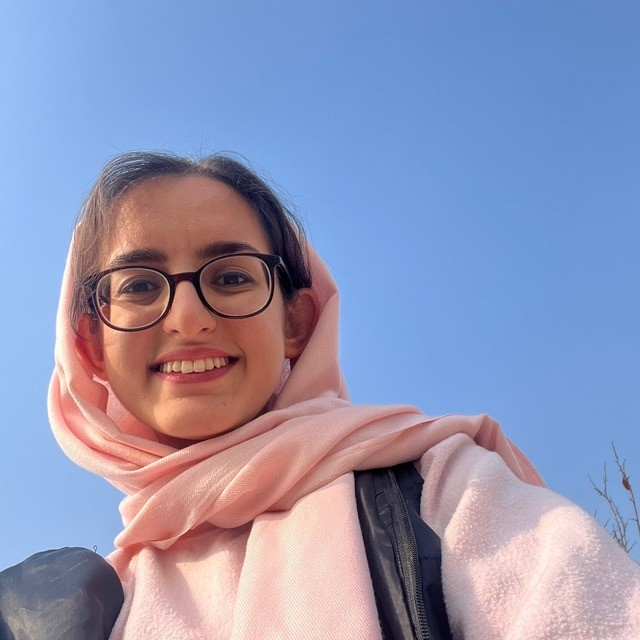
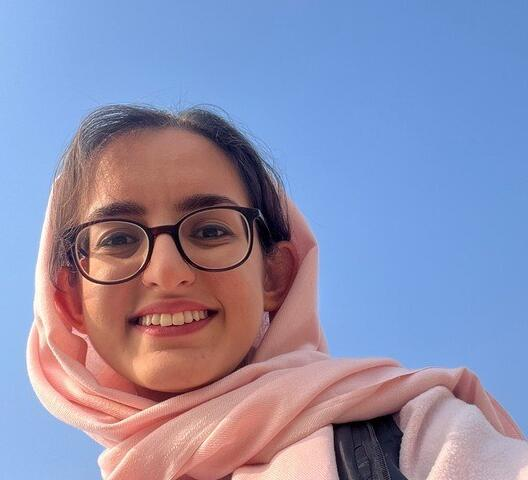
fix

diff --git a/_pages/about.md b/_pages/about.md
@@ -38,7 +38,7 @@ social: true # includes social icons at the bottom of the page
     </ul>
     
     Throughout my undergraduate studies, I had the opportunity to work with 
-    <a href="https://scholar.google.com/citations?user=RKjEFukAAAAJ&hl=en">Professor Amir Zamir</a> at EPFL, 
+    <a href="https://scholar.google.com/citations?user=RKjEFukAAAAJ&hl=en">Prof. Amir Zamir</a> at EPFL, 
     as well as gaining multiple research experiences at Amirkabir University. I have working experience in:
     
     <ul markdown='1'>
